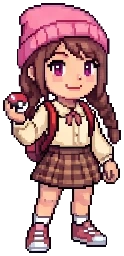
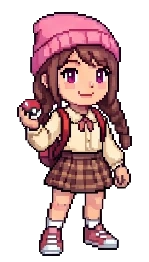
캐릭터 라인 정렬, 게임 수치(스킬·위력·레벨) 제거
캐릭터 정렬:
  20명을 각자 꼭 맞게 잘라 같은 높이로 늘리다 보니 키 비율이 뒤죽박죽이 되고,
  가로 비율이 달라 고르는 화면의 칸 높이까지 어긋났다.
  가장 큰 캐릭터(298x555)를 기준으로 공통 배율(0.461)을 정하고, 20명 모두
  같은 크기 캔버스(149x262)에 발끝을 맞춰 담는다. 이제 키 240~256px 로
  실제 비율이 보이고 바닥선이 한 줄에 놓인다.
  카드 CSS도 그림을 흐름에서 빼서 aspect-ratio 를 지키게 했다 —
  그리드 항목으로 두면 그림의 원본 높이가 칸을 늘려 카드마다 높이가 달라진다.
  카드 크기·원본 크기·바닥 간격이 모두 한 종류인지 검사하는 테스트를 추가했다.

게임 수치 제거:
  기술(스킬) 단서를 없애고, 도감 상세 카드에서 '쓸 수 있는 기술 / 위력 / 레벨'
  항목을 뺐다. 진화 조건의 "레벨 36이 되면"은 "더 자라면"으로 바꿨다.
  배틀 게임 수치라 책에도 없고 읽기·쓰기 연습에 도움이 되지 않는다.
  남은 단서는 도감 설명·타입·별명·크기·고향·특성·진화·책 8종.
  단서에 '레벨'·'위력'이 다시 새어 들어오면 잡히는 검사를 추가했다.

diff --git a/css/style.css b/css/style.css
@@ -164,6 +164,8 @@ body {
   height: clamp(84px, 21vw, 128px);
   width: auto;
   margin: 0 auto;
+  object-fit: contain;
+  object-position: bottom center;
   /* 픽셀아트라서 부드럽게 늘리면 뭉개진다 */
   image-rendering: pixelated;
   filter: drop-shadow(3px 3px 0 rgba(33, 29, 22, .22));
@@ -242,11 +244,15 @@ body {
   gap: 8px;
 }
 
+/* 캐릭터 그림은 20장 모두 같은 크기(공통 배율·바닥 정렬)로 잘라 두었다.
+   그림을 흐름에서 빼 두어야 카드가 aspect-ratio 를 지킨다 —
+   그리드 항목으로 두면 그림의 원본 높이가 칸을 늘려 카드 높이가 저마다 달라진다. */
 .trainer {
-  display: grid;
-  place-items: center;
-  padding: 8px 4px;
+  position: relative;
+  display: block;
+  padding: 0;
   aspect-ratio: 3 / 4;
+  overflow: hidden;
   background: var(--paper);
   border: 3px solid var(--ink);
   box-shadow: 4px 4px 0 var(--ink);
@@ -254,8 +260,14 @@ body {
 }
 .trainer:active { transform: translate(2px, 2px); box-shadow: 2px 2px 0 var(--ink); }
 .trainer img {
-  max-width: 100%;
-  max-height: 100%;
+  position: absolute;
+  top: 6px;
+  left: 5px;
+  width: calc(100% - 10px);
+  height: calc(100% - 12px);
+  object-fit: contain;
+  /* 발끝을 카드 아래에 붙여 모든 칸의 바닥선을 맞춘다 */
+  object-position: bottom center;
   /* 픽셀아트라서 부드럽게 늘리면 뭉개진다 */
   image-rendering: pixelated;
 }

diff --git a/js/data.js b/js/data.js
@@ -117,18 +117,18 @@
     return `${josa.ira(open[0])}는 특성을 가지고 있어.`;
   }
 
-  function moveHint(p) {
-    const names = (p.moves || []).map((m) => m.name);
-    if (!names.length) return null;
-    if (names.length === 1) return `${josa.eul(names[0])} 쓸 수 있어!`;
-    return `${names.slice(0, 3).join(', ')} 같은 기술을 쓸 수 있어!`;
+  // '레벨 36이 되면' 같은 게임 수치는 책에도 없고 아이에게 필요하지도 않다
+  function softenCondition(c) {
+    if (!c) return null;
+    return /레벨/.test(c) ? '더 자라면' : c;
   }
 
   function evoHint(p) {
-    const { from, to, condition } = p.evo || {};
+    const { from, to } = p.evo || {};
+    const condition = softenCondition((p.evo || {}).condition);
     const parts = [];
     if (from) {
-      // condition 자체가 "레벨 36이 되면" 같은 조건절이므로 뒤를 '진화한 모습'으로 맺는다
+      // condition 은 "더 자라면" 같은 조건절이므로 뒤를 '진화한 모습'으로 맺는다
       parts.push(
         condition
           ? `${josa.i(from)} ${condition} 진화한 모습이 바로 나야.`
@@ -186,7 +186,6 @@
     add('크기', sizeHint(p));
     add('고향', homeHint(p));
     add('특성', abilityHint(p));
-    add('기술', moveHint(p));
     add('진화', evoHint(p));
     add('특별', specialHint(p));
     add('책', bookHint(p), 'book');

diff --git a/js/dex.js b/js/dex.js
@@ -235,21 +235,6 @@
         ),
       );
     }
-    if (p.moves && p.moves.length) {
-      const box = el('div', 'row');
-      box.appendChild(el('div', 'row-key', '쓸 수 있는 기술'));
-      p.moves.forEach((m) => {
-        box.appendChild(
-          el(
-            'div',
-            'row-value',
-            `${m.name} — ${m.type}${m.power ? `, 위력 ${m.power}` : ''}` +
-              `${m.level ? `, 레벨 ${m.level}에 배움` : ''}`,
-          ),
-        );
-      });
-      rows.appendChild(box);
-    }
     const evo = evoLine(p);
     if (evo) {
       const box = el('div', 'row');

diff --git a/tools/crop-trainers.py b/tools/crop-trainers.py
@@ -4,7 +4,11 @@
 
 배경만 지우려면 '흰색을 다 지우기'로는 안 된다 — 옷·신발·눈의 흰색까지 뚫린다.
 그래서 이미지 테두리에서 시작해 연결된 흰 영역만 번지듯 훑어(flood fill) 지운다.
-결과: images/trainer/01.webp ~ 20.webp (투명 배경, 높이 256px)
+
+20명을 **같은 배율**로 줄여 **같은 크기 캔버스**에 담고, 바닥(발끝)을 맞춰 놓는다.
+가장 큰 캐릭터가 OUT_H 에 꽉 차고 나머지는 그만큼 작게 보인다 —
+캐릭터마다 따로 늘리면 키 비율이 뒤죽박죽이 되고, 고르는 화면의 칸 높이도 어긋난다.
+결과: images/trainer/01.webp ~ 20.webp (모두 같은 크기, 투명 배경)
 """
 import pathlib
 import sys
@@ -109,35 +113,49 @@ def main():
     for f in OUT_DIR.glob("*.webp"):
         f.unlink()
 
-    n = 0
-    sizes = []
-    for r, (y0, y1) in enumerate(row_bands):
-        for c, (x0, x1) in enumerate(col_bands):
+    # 1차: 칸마다 내용이 꼭 맞는 범위를 구한다 (아직 자르지 않는다)
+    boxes = []
+    for (y0, y1) in row_bands:
+        for (x0, x1) in col_bands:
             cell = content[y0:y1, x0:x1]
             if not cell.any():
                 continue
-            # 칸 안에서 실제 내용만 꼭 맞게 다시 자른다
             ys = np.where(cell.any(axis=1))[0]
             xs = np.where(cell.any(axis=0))[0]
-            top, bot = y0 + ys[0], y0 + ys[-1] + 1
-            left, right = x0 + xs[0], x0 + xs[-1] + 1
-            top = max(0, top - PAD)
-            left = max(0, left - PAD)
-            bot = min(img.height, bot + PAD)
-            right = min(img.width, right + PAD)
+            boxes.append((y0 + ys[0], y0 + ys[-1] + 1, x0 + xs[0], x0 + xs[-1] + 1))
 
-            piece = Image.fromarray(rgba[top:bot, left:right], "RGBA")
-            scale = OUT_H / piece.height
-            # 픽셀아트라서 NEAREST로 줄여 또렷함을 유지한다
-            piece = piece.resize(
-                (max(1, round(piece.width * scale)), OUT_H), Image.NEAREST)
-            n += 1
-            piece.save(OUT_DIR / f"{n:02d}.webp", "WEBP", quality=92, method=5)
-            sizes.append((n, piece.width, piece.height))
+    if not boxes:
+        print("잘라낼 캐릭터를 찾지 못했습니다.")
+        return 1
+
+    # 2차: 가장 큰 캐릭터를 기준으로 공통 배율과 공통 캔버스 크기를 정한다
+    max_h = max(b[1] - b[0] for b in boxes)
+    max_w = max(b[3] - b[2] for b in boxes)
+    scale = OUT_H / max_h
+    canvas_w = max(1, round(max_w * scale)) + PAD * 2
+    canvas_h = OUT_H + PAD
+    print(f"기준: 가장 큰 캐릭터 {max_w}x{max_h}px → 배율 {scale:.3f}, 캔버스 {canvas_w}x{canvas_h}")
+
+    n = 0
+    heights = []
+    for (top, bot, left, right) in boxes:
+        piece = Image.fromarray(rgba[top:bot, left:right], "RGBA")
+        w = max(1, round(piece.width * scale))
+        h = max(1, round(piece.height * scale))
+        # 픽셀아트라서 NEAREST로 줄여 또렷함을 유지한다
+        piece = piece.resize((w, h), Image.NEAREST)
+
+        # 같은 크기 캔버스에 가로 가운데·바닥 맞춰 붙인다 (발끝이 한 줄에 놓인다)
+        out = Image.new("RGBA", (canvas_w, canvas_h), (0, 0, 0, 0))
+        out.alpha_composite(piece, ((canvas_w - w) // 2, canvas_h - PAD - h))
+
+        n += 1
+        out.save(OUT_DIR / f"{n:02d}.webp", "WEBP", quality=92, method=5)
+        heights.append(h)
 
     total = sum(f.stat().st_size for f in OUT_DIR.glob("*.webp"))
     print(f"\n저장: {n}명 → {OUT_DIR.relative_to(ROOT)}  합계 {total / 1024:.0f} KB")
-    print("크기: " + ", ".join(f"{i}:{w}x{h}" for i, w, h in sizes[:5]) + " ...")
+    print(f"모두 {canvas_w}x{canvas_h}px 동일 · 캐릭터 키 {min(heights)}~{max(heights)}px (바닥 정렬)")
     return 0
 
 

diff --git a/plan.md b/plan.md
@@ -5,7 +5,7 @@
 책 **《포켓몬스터 썬&문 포켓몬 전국대도감》**(1~7세대, 802마리)을 읽은 7살 아이가
 **책 내용을 떠올리며 퀴즈를 풀고, 맞출 때마다 나만의 도감이 채워지는** 웹 게임.
 
-- 퀴즈 힌트(타입·특성·기술·진화·도감 설명)를 **소리내어 읽는 것 자체가 읽기 연습**이 되도록 구성
+- 퀴즈 단서(도감 설명·타입·별명·크기·고향·특성·진화)를 **소리내어 읽는 것 자체가 읽기 연습**이 되도록 구성
 - 도감을 한 마리씩 모으는 **수집의 재미**가 핵심 동기
 - 책과 연동: 포켓몬마다 "책 ○○쪽에서 찾아봐!" 표시 (인덱스 사진 3장에서 추출)
 
@@ -57,15 +57,18 @@
 
 ```
 ┌─────────────────────────────────┐
-│   검은 실루엣 이미지 (크게)         │
+│  ┌──────────┐  No. ???          │
+│  │    ?     │  (모습은 가린다)    │
+│  │  [전기]  │  ← 타입 띠         │
+│  └──────────┘                    │
 │                                 │
-│  💡 힌트 카드 (하나씩 넘겨 읽기)     │
-│   ① 타입: 전기 타입이야            │
-│   ② 특성/기술: 10만볼트를 써!      │
-│   ③ 진화: 라이츄로 진화해          │
-│   ④ 도감 설명: "볼의 주머니에       │
-│      전기를 모은다…" (책 스타일)    │
-│   📖 책 76쪽에서 찾아봐!           │
+│  단서 카드 (위에서 아래로 읽기)      │
+│   ① 도감: "볼의 주머니에            │
+│      전기를 모은다…" (책 문장)      │
+│   ② 타입: 전기 타입이야            │
+│   ③ 별명: 쥐포켓몬이라고 불러       │
+│   ④ 진화: 피츄가 진화한 모습이야    │
+│   ⑤ 책 76쪽에 내가 있어!           │
 │                                 │
 │  입력칸:  [피] [카] [__]           │
 │                                 │
@@ -75,8 +78,10 @@
 └─────────────────────────────────┘
 ```
 
-- **힌트 카드**: 타입 → 특성·기술 → 진화 → 도감 설명 순으로 배치. 전부 한 번에 보여주되
-  카드 형태로 크고 읽기 쉬운 글씨(문장은 짧게). 최대한 자세한 정보 제공 = 읽을거리
+- **힌트 카드**: 도감 설명 → 타입 → 별명 → 크기 → 고향 → 특성 → 진화 → 책 순.
+  전부 한 번에 보여주되 카드 형태로 크고 읽기 쉬운 글씨(문장은 짧게).
+  **기술(스킬)·위력·습득 레벨 같은 배틀 게임 수치는 넣지 않는다** — 책에도 없고
+  읽기 연습에 도움이 안 된다. 진화 조건도 "레벨 36이 되면" 대신 "더 자라면"으로 적는다.
 - **글자 타일**: 정답 글자 수 + 함정 글자 3개 내외. 글자 수가 입력칸으로 표시되어
   "3글자 이름이구나"를 알 수 있음. 잘못 누르면 ⌫로 지우기
 - **오답 피드백**: 틀리면 흔들림 + "아깝다! 다시 읽어볼까?" / 2번째 오답엔 첫 글자 자동 공개
@@ -101,7 +106,7 @@
 ### 3.4 도감 화면 (수집의 재미)
 
 - 탭: **전체(802)** + 타입 18개. 잠긴 탭 없음
-- **잡은 포켓몬**: 컬러 이미지 + 이름. 터치하면 상세 카드(타입·키·몸무게·기술·진화·도감설명·책 페이지)
+- **잡은 포켓몬**: 컬러 이미지 + 이름. 터치하면 상세 카드(타입·키·몸무게·특성·진화·도감설명·책 페이지)
 - **못 잡은 포켓몬**: `?` + "???" — 퀴즈에서 모습을 가리는 것과 같은 규칙이어야
   도감을 뒤져 답을 찾는 일이 없다
 - 진행률 표시: "물 타입 37 / 131", 전체 "○○ / 802"
@@ -125,8 +130,8 @@
 1. **`/pokemon-species/{1..802}`** → 한글 이름(`names[ko]`), 분류(`genera[ko]`),
    도감 설명(`flavor_text_entries` 중 `ko` — 썬/문 → 울트라썬문 → 레츠고/소드실드 순 폴백),
    진화 체인 URL
-2. **`/pokemon/{id}`** → 타입, 특성, 대표 기술 2~3개 (타입·특성·기술 이름도 전부 한글화 —
-   PokéAPI의 type/ability/move 리소스에 `ko` 이름 있음), 키·몸무게
+2. **`/pokemon/{id}`** → 타입, 특성, 키·몸무게 (타입·특성 이름도 한글화 —
+   PokéAPI의 type/ability 리소스에 `ko` 이름 있음)
 3. **`/evolution-chain/{id}`** → 진화 단계 (한글 이름으로 변환)
 4. **이미지**: official-artwork PNG 802장 다운로드 → `images/` 폴더에 저장
    (실루엣은 CSS `filter: brightness(0)`로 처리 — 별도 이미지 불필요)
@@ -189,9 +194,9 @@
 - **`file://`로 열면 `fetch()`가 CORS로 막힌다.** 그래서 데이터를 JSON이 아니라
   `window.POKEDEX = {...}` 형태의 `.js`로 내보내 `<script>`로 읽는다.
   패드에서는 LAN 서버(`serve.mjs`)로 여는 쪽이 가장 확실하다.
-- **힌트용 기술은 위력이 아니라 "레벨업으로 스스로 배우는 기술"로 골라야 한다.**
-  위력만 보면 아무 포켓몬이나 배우는 기술머신 기술이 뽑혀 힌트가 밋밋해진다
-  (피카츄에 10만볼트 대신 번개).
+- **기술(스킬)·위력·습득 레벨은 결국 다 뺐다** (아이 요청). 배틀 게임 수치라
+  책에도 없고 읽기 연습에도 도움이 안 된다. 진화 조건의 "레벨 36이 되면"도
+  "더 자라면"으로 바꿨다. 데이터는 남아 있지만 화면에 쓰지 않는다.
 - **축하창은 새로 넘은 것 중 가장 높은 하나만 띄운다.** 여러 단계를 한 번에
   넘으면 "1마리 달성 / 5마리 달성 / 10마리 달성…"이 줄줄이 떠서 아이가 지친다.
 - **한글 조사·인용형 처리가 필요하다.** 받침 유무에 따라 은/는·이/가·을/를·
@@ -205,6 +210,13 @@
 - **실루엣을 없앴다.** 모습만 보고도 맞힐 수 있어 단서를 읽지 않았다.
   지금은 `No. ???`와 `?`만 두고, 맞히거나 도망갔을 때 공개한다.
   도감의 미획득 칸도 같은 규칙(`?`)이어야 도감을 뒤져 답을 찾는 일이 없다.
+
+- **캐릭터 그림은 한 배율로 잘라야 한다.** 20명을 각자 꼭 맞게 잘라 같은 높이로
+  늘리니 키 비율이 뒤죽박죽이 되고, 가로 비율이 달라 고르는 화면의 칸 높이까지
+  어긋났다. 지금은 가장 큰 캐릭터 기준 **공통 배율 + 같은 크기 캔버스 + 바닥선 정렬**.
+- **절대 위치 이미지에 `width:auto`를 주면 안 된다.** '남은 자리 채우기'가 아니라
+  '원본 크기'가 쓰이고 `right`는 무시돼 카드를 넘쳐 잘린다. 반대로 그리드 항목으로
+  두면 원본 크기가 칸을 늘려 `aspect-ratio`가 깨진다 — 크기를 명시하는 게 답이다.
 
 ## 9. v1 범위에서 제외 (추후 후보)
 

diff --git a/README.md b/README.md
@@ -19,7 +19,7 @@
 ## 어떻게 노는가
 
 1. 판에는 `No. ???`와 큰 `?`만 있다. **포켓몬 모습은 보여 주지 않는다.**
-2. 아래 단서를 읽는다 — 타입, 별명(분류), 키·몸무게, 특성, 기술, 진화, 도감 설명,
+2. 아래 단서를 읽는다 — 도감 설명, 타입, 별명(분류), 키·몸무게, 고향, 특성, 진화,
    그리고 **우리 책 몇 쪽에 있는지**
 3. 노란 **글자 타일**을 순서대로 눌러 이름을 만든다
 4. 맞히면 판이 열려 모습과 도감 번호가 나온다
@@ -94,6 +94,13 @@ https://nodejs.org 에서 Node.js를 설치하면 된다.
 
 `index.html`을 더블클릭. 크롬·엣지에서 정상 동작한다.
 
+## 담지 않은 것
+
+기술(스킬)·위력·습득 레벨 같은 **배틀 게임 수치는 넣지 않았다.** 책에도 없고,
+읽기·쓰기 연습에 도움이 되지 않는다. 진화 조건도 "레벨 36이 되면" 대신
+"더 자라면"으로 적는다. 단서와 도감 카드에는 책에 실린 것만 담았다 —
+도감 설명, 타입, 분류, 키·몸무게, 고향, 특성, 진화, 책 페이지.
+
 ## 진행 상황 저장
 
 브라우저의 저장 공간(localStorage)에 자동 저장된다. **같은 브라우저로 같은 주소**를
@@ -151,6 +158,9 @@ python tools/crop-trainers.py [시트.png]     # → images/trainer/01.webp ~ 20
 
 배경만 지우려면 '흰색을 다 지우기'로는 안 된다 — 옷·신발·눈의 흰색까지 뚫린다.
 그래서 이미지 테두리에서 시작해 **연결된 흰 영역만** 번지듯 훑어(flood fill) 지운다.
+
+20명을 **같은 배율**로 줄여 **같은 크기 캔버스**에 담고 **발끝(바닥선)을 맞춘다.**
+캐릭터마다 따로 늘리면 키 비율이 뒤죽박죽이 되고 고르는 화면의 칸 높이도 어긋난다.
 픽셀아트라서 줄일 때도 NEAREST로 처리해 또렷함을 유지한다. 원본 시트는
 저장소에 넣지 않았다(6MB, 게임에 필요하지 않다).
 
